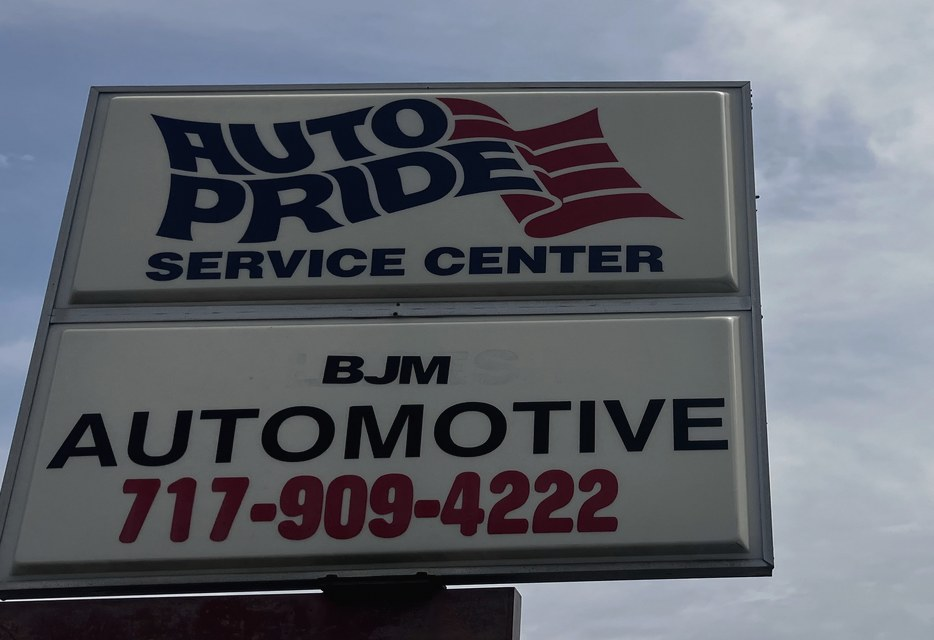
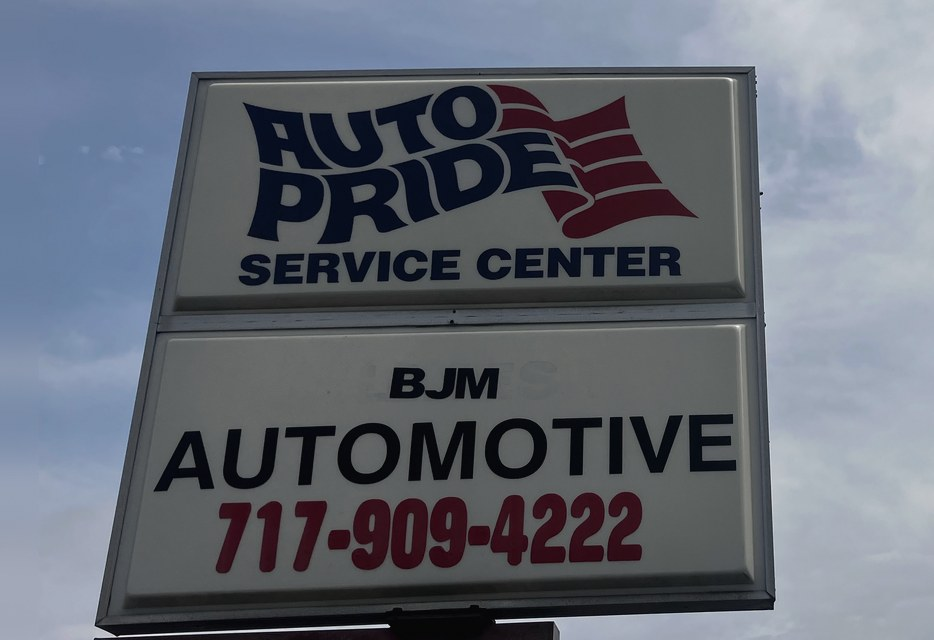
BJM phone pass: no add-buttons, cutout+sign centred, tighter mobile reviews

diff --git a/bjm-auto/index.html b/bjm-auto/index.html
@@ -10,9 +10,9 @@
 <link rel="icon" href="img/logo.png">
 <!-- LCP image discoverable in the HTML, never lazy -->
 <link rel="preload" as="image" href="img/hero-w.jpg?v=1" media="(min-width:861px)" fetchpriority="high">
-<link rel="preload" as="image" href="img/hero-p.jpg?v=1" media="(max-width:600px)" fetchpriority="high">
+<link rel="preload" as="image" href="img/hero-p.jpg?v=2" media="(max-width:600px)" fetchpriority="high">
 <!-- bb-law: system stack only (Segoe UI). No webfonts — the reference build dropped them. -->
-<link rel="stylesheet" href="css/site.css?v=cc3b0242">
+<link rel="stylesheet" href="css/site.css?v=cc3b0243">
 </head>
 <body class="scheme-flip" data-site="bjm-auto" data-pill="Get a free estimate">
 <a class="skip" href="#work">Skip to The work</a>
@@ -41,8 +41,8 @@
     <div class="hero__shot">
     <picture>
       <source media="(min-width:861px)" srcset="img/hero-w.jpg?v=1">
-      <source media="(min-width:601px)" srcset="img/hero-m.jpg?v=1">
-      <img class="hero__img" src="img/hero-p.jpg?v=1" width="934" height="640" fetchpriority="high" alt="The BJM Automotive / Auto Pride Service Center road sign at 2315 Walnut Street, Harrisburg, with the shop phone number on it">
+      <source media="(min-width:601px)" srcset="img/hero-m.jpg?v=2">
+      <img class="hero__img" src="img/hero-p.jpg?v=2" width="934" height="640" fetchpriority="high" alt="The BJM Automotive / Auto Pride Service Center road sign at 2315 Walnut Street, Harrisburg, with the shop phone number on it">
     </picture>
 
     </div>
@@ -56,7 +56,7 @@
       </div>
 
       <div class="hero__cut">
-        <img src="img/owner-cut.png?v=1" width="896" height="1200"
+        <img src="img/owner-cut.png?v=2" width="397" height="433"
              alt="The face of BJM Automotive">
       </div>
     </div>
@@ -79,25 +79,21 @@
         <span class="pj__ph"><img src="img/job-lead.jpg?v=1" width="1100" height="419" loading="lazy" decoding="async"
              alt="On the lift in our bay at 2315 Walnut Street"></span>
         <div class="pj__cap"><b>In the bay on Walnut Street</b><span>Our own lift, our own tire wall - this is where your car goes.</span></div>
-        <button class="pj__add" type="button" data-product="General repair" data-want="General repair">+ Add to my visit</button>
       </div>
       <div class="pj">
         <span class="pj__ph"><img src="img/job-brakes.jpg?v=1" width="1100" height="733" loading="lazy" decoding="async"
              alt="A brake rotor and caliper on the workbench - the kind of job this card names"></span>
         <div class="pj__cap"><b>Brakes</b><span>Pads, rotors, calipers and lines - done right and road tested.</span></div>
-        <button class="pj__add" type="button" data-product="Brakes" data-want="Brakes">+ Add to my visit</button>
       </div>
       <div class="pj">
         <span class="pj__ph"><img src="img/job-tires.jpg?v=1" width="1100" height="733" loading="lazy" decoding="async"
              alt="An impact wrench going onto a wheel - the kind of job this card names"></span>
         <div class="pj__cap"><b>Tires</b><span>Mount, balance and rotation - torqued with a wrench, not an impact.</span></div>
-        <button class="pj__add" type="button" data-product="Tires" data-want="Tires">+ Add to my visit</button>
       </div>
       <div class="pj">
         <span class="pj__ph"><img src="img/job-inspect.jpg?v=1" width="1100" height="733" loading="lazy" decoding="async"
              alt="A car raised with its hood open for inspection - the kind of job this card names"></span>
         <div class="pj__cap"><b>PA state inspection</b><span>The annual sticker, done while you wait when the morning allows.</span></div>
-        <button class="pj__add" type="button" data-product="State inspection" data-want="State inspection">+ Add to my visit</button>
       </div>
     </div>
 

diff --git a/bjm-auto/css/site.css b/bjm-auto/css/site.css
@@ -676,3 +676,15 @@ input[type=file]{padding:.55rem}
    nav carrying the shop's hours. Not sticky - the nav below it is. */
 .topstrip{background:var(--brand);color:#fff;text-align:center;font-weight:700;
           font-size:.85rem;letter-spacing:.03em;padding:.4rem .75rem}
+
+/* BJM phone pass (Grady 9/3, reviewing on his phone): review cards were adding a
+   screen of scroll - tighten them; keep the founder cutout dead-centred in its cell. */
+@media (max-width:860px){
+  .rev{padding:.85rem 1rem .8rem}
+  .rev blockquote{font-size:.98rem;line-height:1.35}
+  .rev blockquote::before{font-size:2.1rem;line-height:.55}
+  .rev__who{margin-top:.45rem;font-size:.98rem}
+  .revs{gap:.7rem}
+  .hero__cut{justify-content:center;align-items:flex-end}
+  .hero__cut img{margin-inline:auto;max-height:100%}
+}
